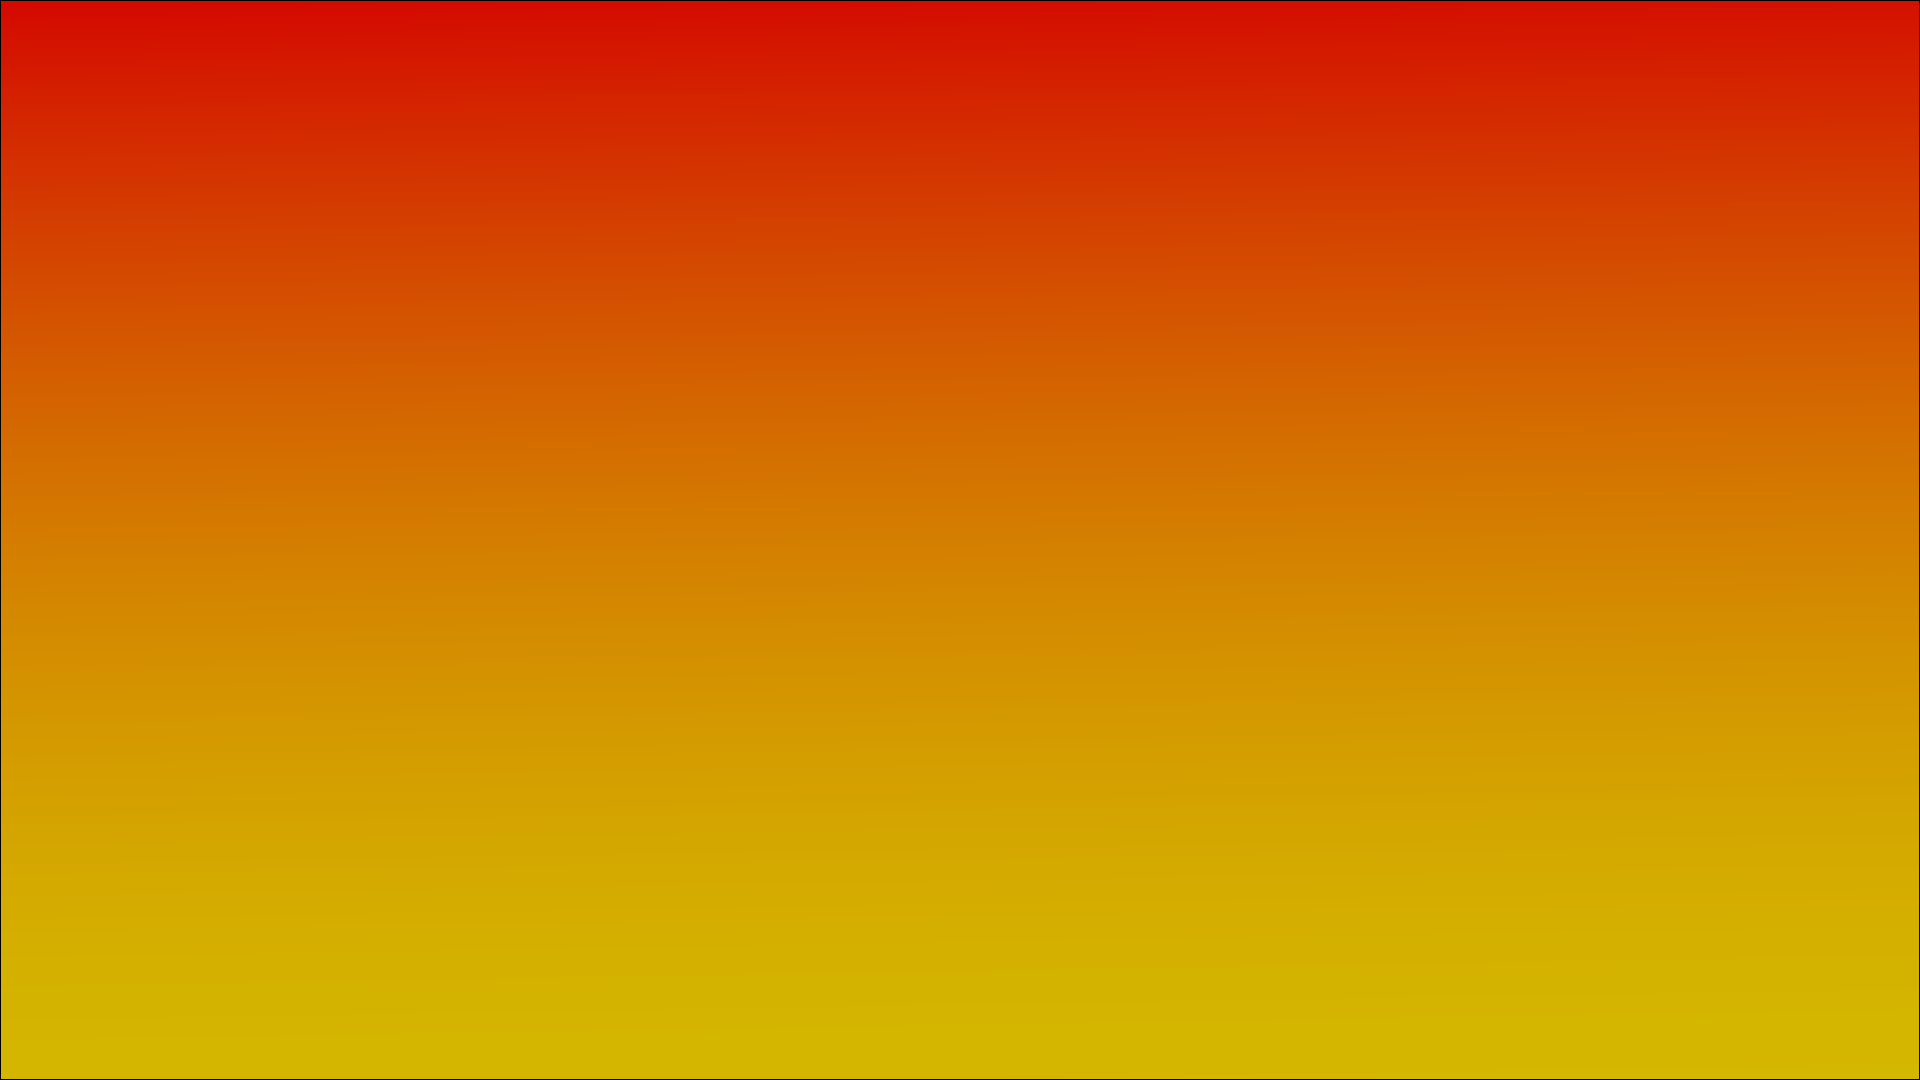
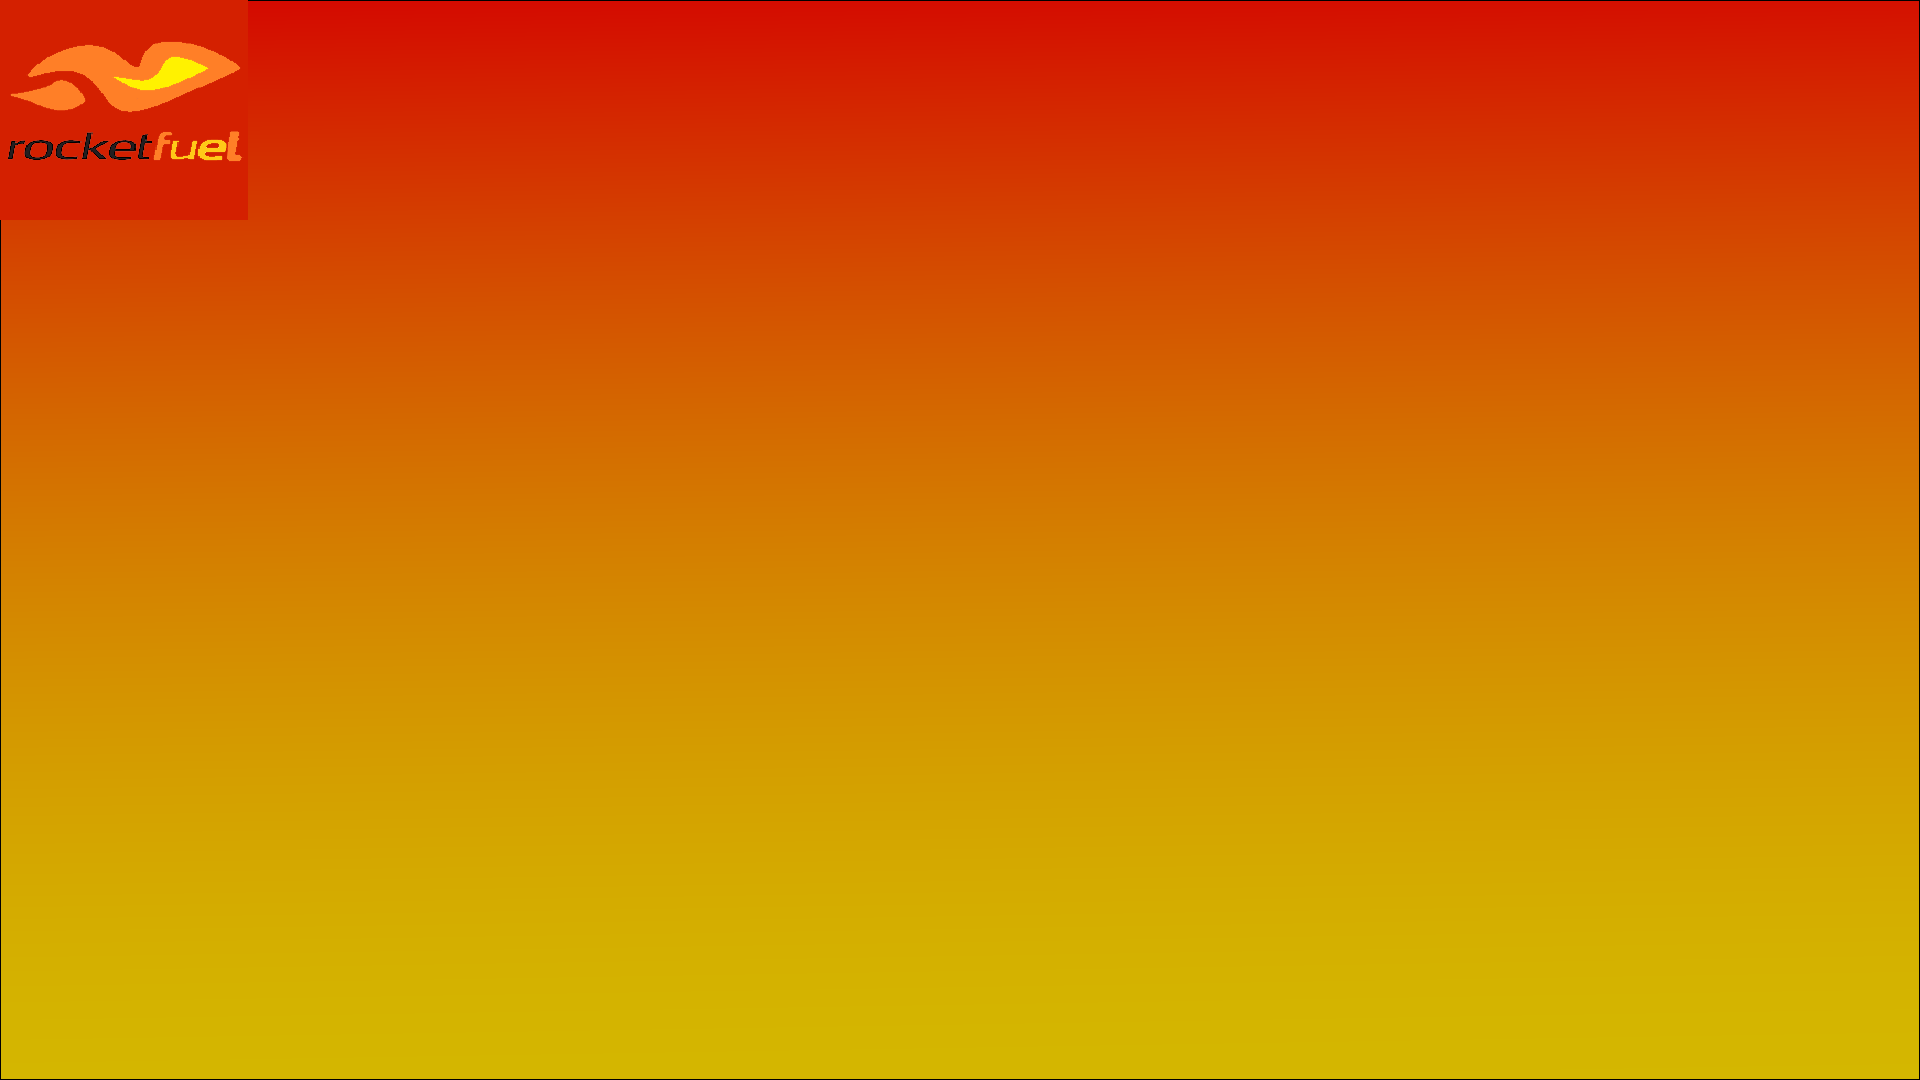
update

Changed region(s): [[0.0, 0.0306, 0.125, 0.1528], [0.0, 0.1833, 0.125, 0.2139]]

diff --git a/rocketfuel/CSS/contact opnemen style.css b/rocketfuel/CSS/contact opnemen style.css
@@ -4,7 +4,7 @@
 @import url('https://fonts.googleapis.com/css2?family=RocknRoll+One&display=swap');
 
  html {
-      background-image: url(/rocketfuel/fotos/achtergrond.png);
+      background-image: url(/fotos/achtergrond.png);
       background-size: cover;
       background-repeat: no-repeat;
    }

diff --git a/rocketfuel/Contact opnemen.html b/rocketfuel/Contact opnemen.html
@@ -11,8 +11,6 @@
 <body>
     <header>
         <article>
-        <img id="foto1" src="fotos/logo1.png" alt="logo">
-         </article>
         <nav id="navigatie">
                 <ul>
                     <li><a href="#homepage.html">Homepage</a></li>

diff --git a/rocketfuel/Contact opnemen.php b/rocketfuel/Contact opnemen.php
@@ -26,16 +26,12 @@
 </nav>
 </header>
  <main class="kern">
-  
- <h2>  
-    Als je vragen hebt of meer informatie nodig hebt.
-    <br>
-    je kan ons contacteren via die formulier hieronder
-</h2>
- <p> Contact opnemen:____________________________;</p>
-
-
-   
+<?php
+if(isset($_GET['voornaam']))
+{
+    echo $_GET['voornaam']."<br/>"
+}
+?>
 </body>
 <body>
 
